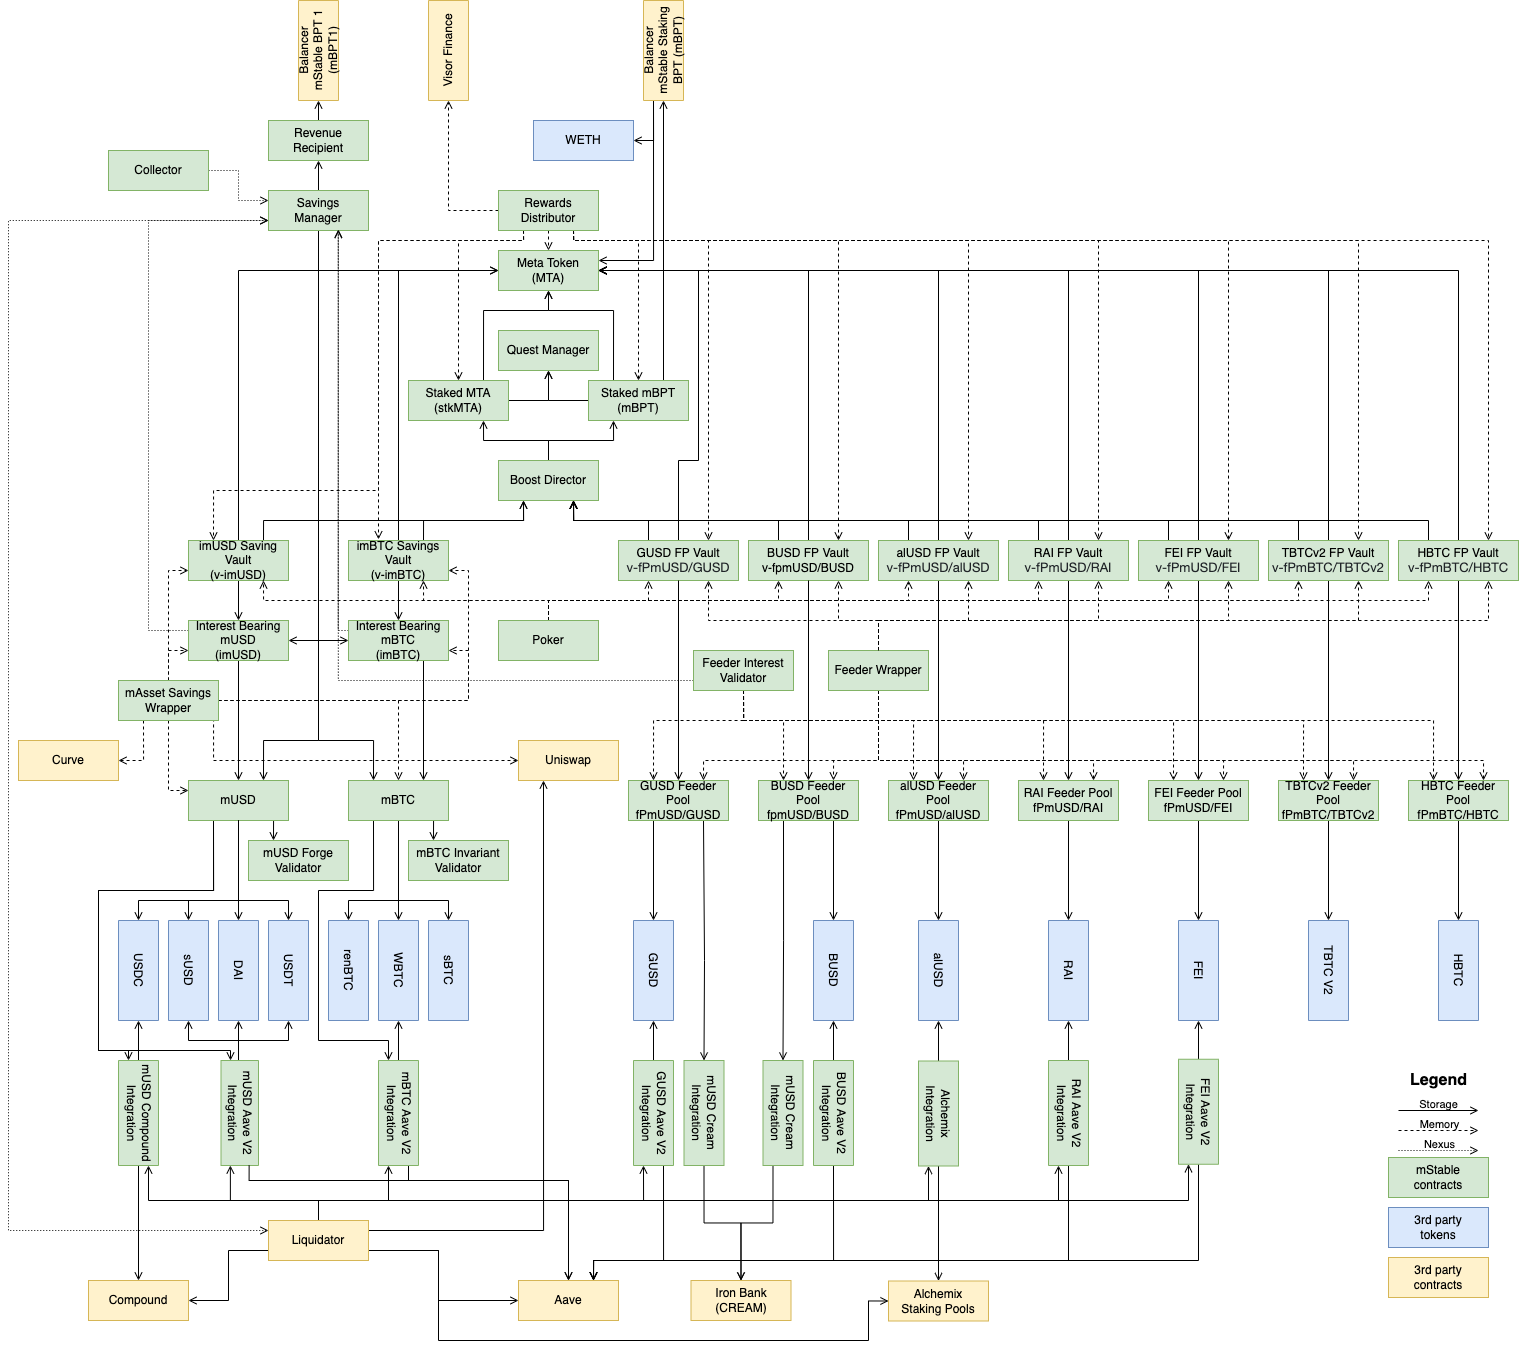
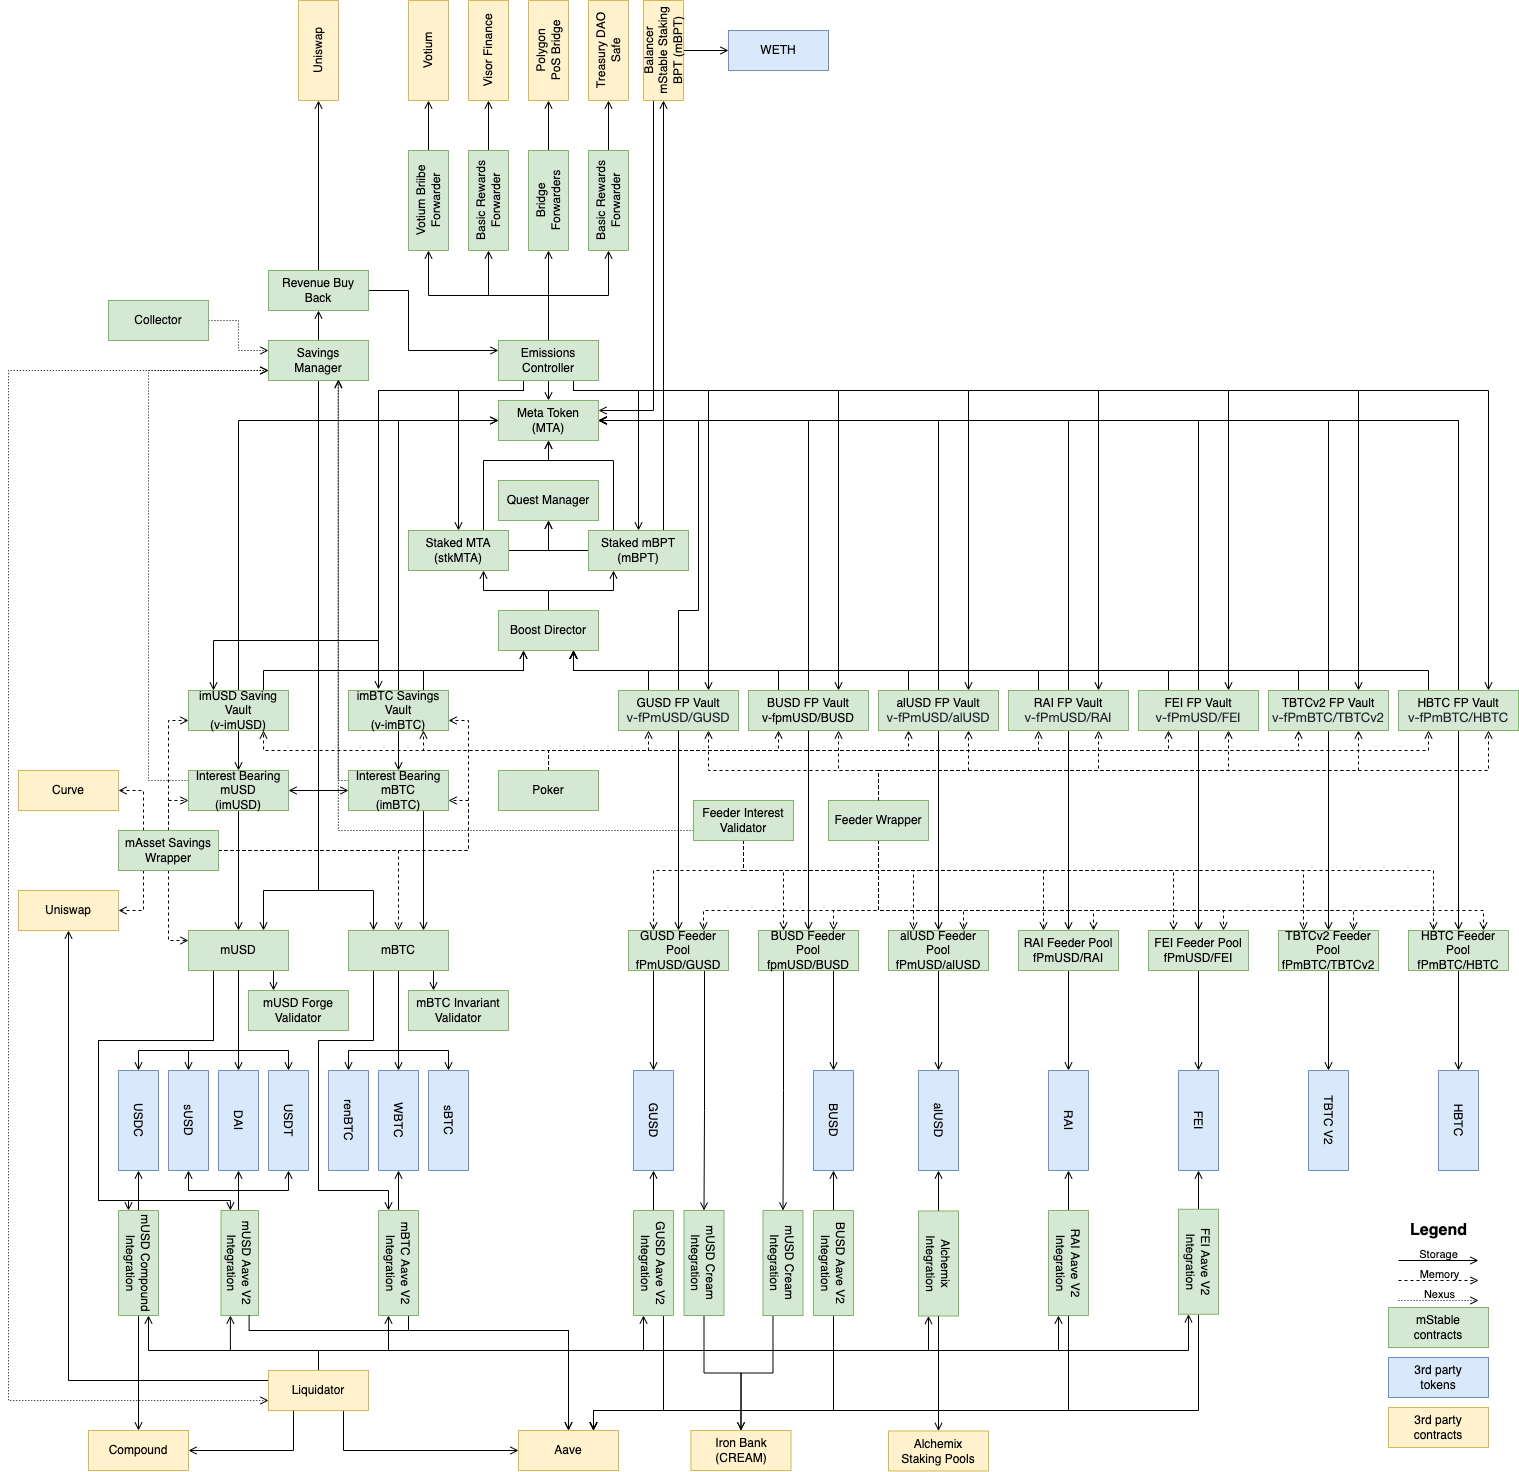
chore: added more Emissions processes

Changed region(s): [[0.0, 0.0, 1.0, 1.0], [0.5569, 0.9333, 0.6498, 1.0]]

diff --git a/README.md b/README.md
@@ -44,6 +44,8 @@ puml generate distributeRewardsMainnetAlchemix.puml -o distributeRewardsMainnetA
 
 cd emissions
 npx puml generate weeklyEmissions.puml -o weeklyEmissions.png
+npx puml generate weeklyEmissions2TreasuryDAO.puml -o weeklyEmissions2TreasuryDAO.png
+npx puml generate weeklyEmissions2Votium.puml -o weeklyEmissions2Votium.png
 npx puml generate polygonBridge_frax.puml -o polygonBridge_frax.png
 npx puml generate polygonBridge_vimUSD.puml -o polygonBridge_vimUSD.png
 npx puml generate polygonBridge_balancer.puml -o polygonBridge_balancer.png

diff --git a/emissions/README.md b/emissions/README.md
@@ -6,6 +6,14 @@ Processes distribute MTA rewards to dials using voting power.
 
 ![Weekly Rewards Emissions](./weeklyEmissions.png)
 
+## Weekly Rewards to Treasury DAO
+
+![Weekly Rewards to Treasury DAO](./weeklyEmissions2TreasuryDAO.png)
+
+## Weekly Rewards to Votium
+
+![Weekly Rewards to Votium](./weeklyEmissions2Votium.png)
+
 ## MTA Buy Back for Stakers
 
 ![Weekly Rewards Emissions](./buyBackForStakers.png)
